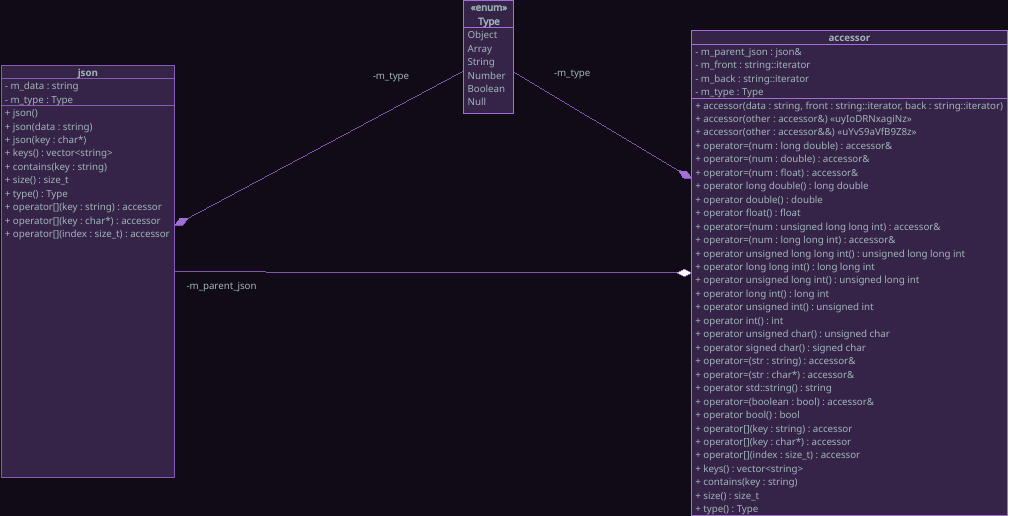
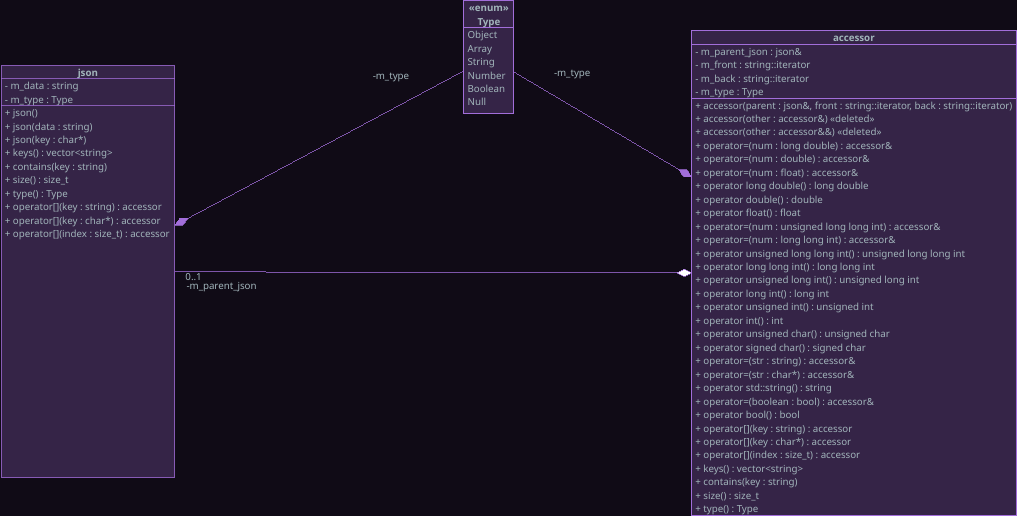
documentation changes, added something to the class diagram, honestly can't remember, added details to README

diff --git a/README.md b/README.md
@@ -1,14 +1,83 @@
 # SimpleJson
+
 SimpleJson is an attempt at building an easy to use JSON library for C++ with syntax ispiration from the standard containers
 
-This is a work in progress and mostly a portfolio piece (though I may use it for other projects myself).
+This is a work in progress and mostly a portfolio piece (though I may use it for other projects myself).  
 Use in the real world is not recommended
 
-Using cast and assignment operators, it seems possible to use the syntax:
-Read:
-std::string name = json.get("name");
+## Design
 
-Write:
-json.get("name") = "John Deere";
+The goal is to remove the need for specifying the type of the data at access, since all data types in JSON are unambiguous.  
+From what I have written, this is achievable through the use of overloaded assignment operator and casting operators to read and (over)write.  
+Insertion will also need to be overloaded to take all types, but that is through the normal overloaded argument types.  
+Deletion is already type agnostic.  
 
-Experiments seemed to work, see advanced casting repo
+The library uses exceptions if the type requested is incorrect or a function is invalid. While a little cumbersome, I'm pretty sure this is necessary for the type-erasure I'm attempting, as using templates require the types be known at compile time, and subclassing can't remove parent functions as far as I know.  
+
+Internally the library stores the JSON as a string and parses the data as necessary. This is definitely not the fastest, but  
+a) optimizes for space, rather than using some sort of tree and  
+b) is part of the specification for the original database project I based this on.
+
+Sub-objects and arrays are accessed through a accessor class that performs the string manipulation on the data and handles most of the data conversion.  
+It shouldn't be directly accessable by the end user and only acts as a translation wrapper around the data to allow the desired syntax.
+
+After I get this working, I will probably try to furthere optimize runtime vs storage for specific use cases.  
+
+## Syntax
+
+This is all the desired syntax, I haven't run into any problems with this yet, but is subject to change
+
+### Read
+
+Data is read through a combination of the subscript operator and casting. The subscript operator accesses fields and elements of objects and arrays, and the data is then converted to the expected type by casting or an error is thrown.  
+`int id = data["id number"];`  
+`std::string lastName = data["name"][1];`  
+
+### Write
+
+Writing data uses the subscript operator and assignment operator. I'm leaning toward not allowing simple writing to change the type of a field, and requiring deletion and insertion to make those changes for safety.  
+`data["salary"] = 120000;`  
+`data["name"][1] = "Smithe";`  
+`data["name"][0] = 42;` is probably not allowed because it changes the type from array to number  
+
+### Insert
+
+Insertion is (not yet added to header) done through an explicit insert() function. This can be called on either the json object directly for first level fields or after a subscript operator for nested fields.  
+Arguments are `insert(key or index, value)`  
+`data.insert("department", "IT");`  
+`data.insert("hobbies", "["hiking", "wood working", "baking", "knitting"]");` This will definitely work as a string; I would like to remove the outer quotes if possible.  
+`data.insert("sub-object", "{"field 1": "value 1", "field 2", false}");` Same with this  
+`data["name"].insert(1, "Alfred");` inserts string at index 1 in array "name"  
+
+### Delete
+
+Deletion works the same as insertion  
+`data.delete("sub-object");`  
+`data["name"].delete(1);`
+
+### Additional
+
+There are other functions for getting information about the data both at top level or for sub-fields
+`keys()` returns the keys of an object as a vector  
+`contains(key)` checks if a key exists in the object  
+`size()` returns the number of elements in an array  
+`type()` returns the type of the data. This applies to the current level only. I decided it wasn't necessary to make a version that takes a key or value, when you can just get that field and then call `.type()`  
+
+e.g.
+```
+if (data.type() != json::Type::Object) std::cerr << "Data is not an object";
+for (const auto& k : data.keys())
+{
+    switch (data[k].type())
+    {
+        case Object:
+            // etc
+            break;
+        case Array:
+            // etc
+            break;
+
+            ...
+    }
+}
+```
